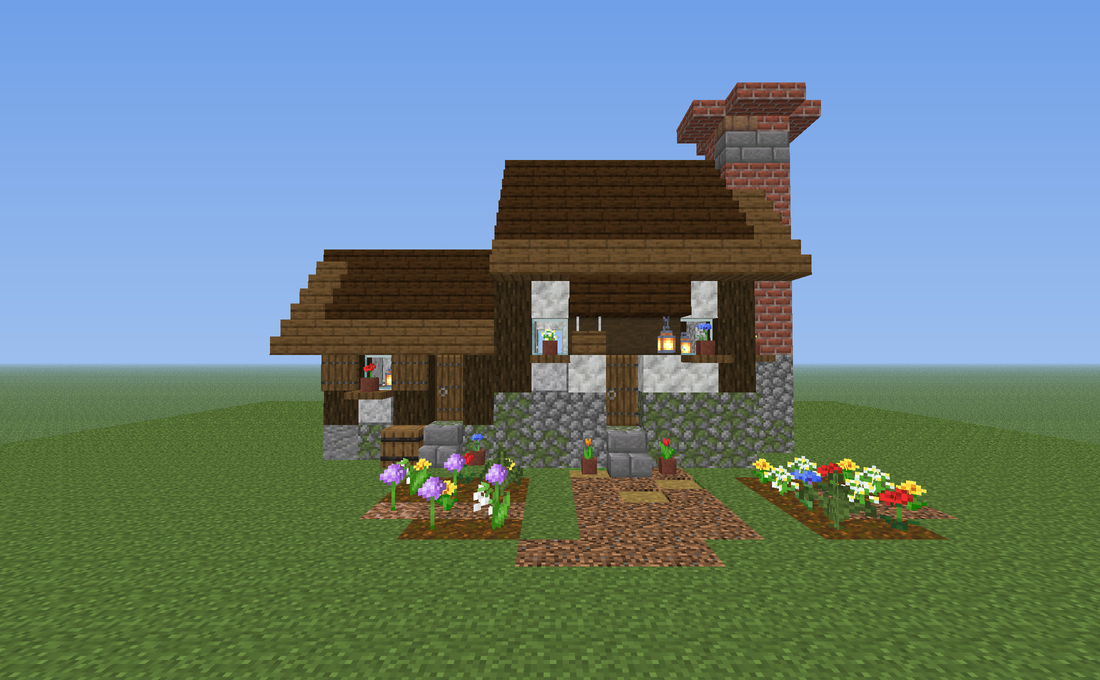
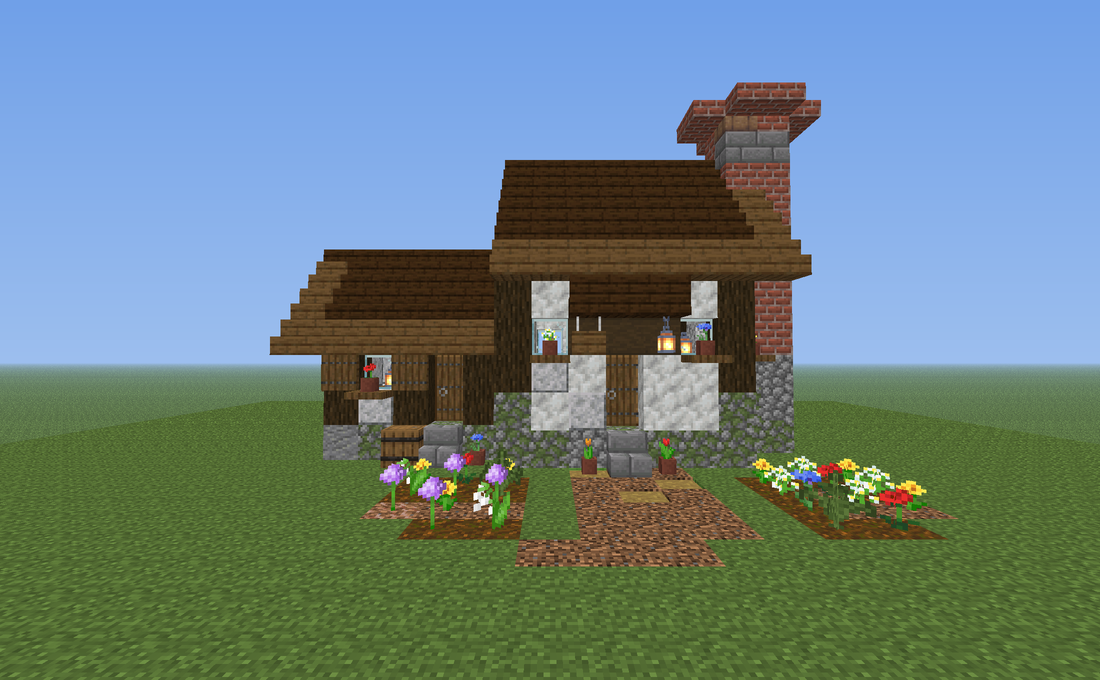
Finish review round 3: cottage plaster front, regenerate houses
Hall front is plaster from the first course (no mid post), 2-material roofs, lawn around the cottage with plinth and dirt path, factory path/plaza/ground reworked in WIP; regenerated YAML and previews, lint passes.

Changed region(s): [[0.4636, 0.5559, 0.68, 0.6485]]

diff --git a/design/scripts/house_default.py b/design/scripts/house_default.py
@@ -75,12 +75,13 @@ def build() -> tuple:
     for (x, z) in ((3, 6), (9, 6), (3, 12), (9, 12)):
         for y in (2, 3, 4):
             put(x, y, z, lg(BEAM, "y"))
-    for z in (6, 12):                                                          # mid posts, square panels
-        for y in (2, 3, 4):
-            put(6, y, z, lg(BEAM, "y"))
+    for y in (2, 3, 4):                                                        # back mid post only: the front stays plaster
+        put(6, y, 12, lg(BEAM, "y"))
     for x in (3, 9):
         for y in (2, 3, 4):
             put(x, y, 9, lg(BEAM, "y"))
+    for x in (4, 5, 7, 8):                                                     # front: plaster from the first course up
+        put(x, 1, 6, PLASTER.pick(x, 1, 6))
     WN = Wall(b, "north", "east", (0, 6))
     door(WN, 6, 1, mat="spruce", hood=True, jambs=False)
     put(5, 3, 5, B.lantern(True))
@@ -143,7 +144,7 @@ def build() -> tuple:
                   {"name": "wing", "footprint": (9, 7, 14, 11), "top": 6}]
     n.ramps = dict(RAMPS)
     n.plinth = {"blocks": RAMPS["plinth"], "courses": 2,
-                "ring": [(x, z) for x in range(3, 10) for z in range(6, 13) if x in (3, 9) or z in (6, 12)]}
+                "ring": [(x, z) for x in range(3, 10) for z in range(6, 13) if (x in (3, 9) or z in (6, 12)) and not (z == 6 and x in (4, 5, 7, 8))]}
     n.body_box = (3, 6, 14, 12)
     n.wall_rows = (1, 4)
     n.ground_region = (-1, -1, SX, SZ)
